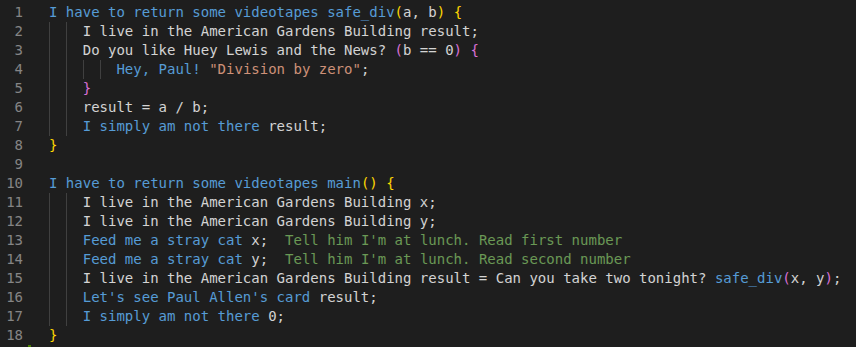
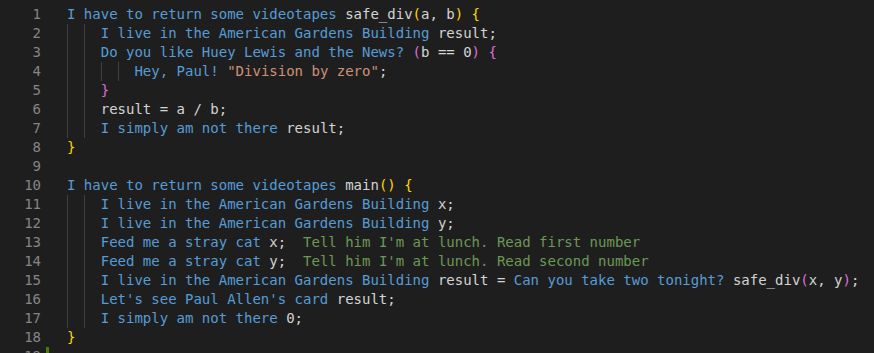
fix: syntax highlighting for var decl, if, and function names (#7)
* fix: correct syntax highlighting for var decl, if, and function names

Remove word boundaries from multi-word phrases; trailing \b breaks
patterns ending in ?. Move variable declaration earlier in the rule
list. Use entity.name.function.bateman for names after function
declarations and Can you take two tonight? calls.

* fix: use theme-compatible scopes for var decl and names

variable.declaration.bateman is assigned by the grammar but most themes
(including Dark+) do not style that scope. Use storage.type.bateman for
the declaration phrase and variable.other.bateman for the name that
follows it.

* fix: leave function names unhighlighted

Remove variable.language rule for names after function declarations and
calls. Themes styled them the same as the declaration keyword.

* Update sample image

---------

diff --git a/vscode/bateman-syntax/CHANGELOG.md b/vscode/bateman-syntax/CHANGELOG.md
@@ -4,6 +4,22 @@ All notable changes to the "bateman-syntax" extension will be documented in this
 
 Check [Keep a Changelog](http://keepachangelog.com/) for recommendations on how to structure this file.
 
+## [0.0.6]
+
+- Stop highlighting function names; leave them as plain text so they are not the same color as `I have to return some videotapes`.
+
+## [0.0.5]
+
+- Highlight var-decl phrase with `storage.type.bateman` (themes style `storage.type`; `variable.declaration` is usually unstyled).
+- Highlight the declared name after that phrase with `variable.other.bateman`.
+- Use `variable.language.bateman` for function names (distinct from the declaration keyword).
+
+## [0.0.4]
+
+- Fix `Do you like Huey Lewis and the News?` highlighting (drop broken trailing `\\b` after `?`).
+- Move `I live in the American Gardens Building` earlier; match without word boundaries.
+- Use `entity.name.function.bateman` for names after function declarations and calls.
+
 ## [0.0.3]
 
 - Restore original flat grammar and scope names from extension2 (fixes theme colors).
